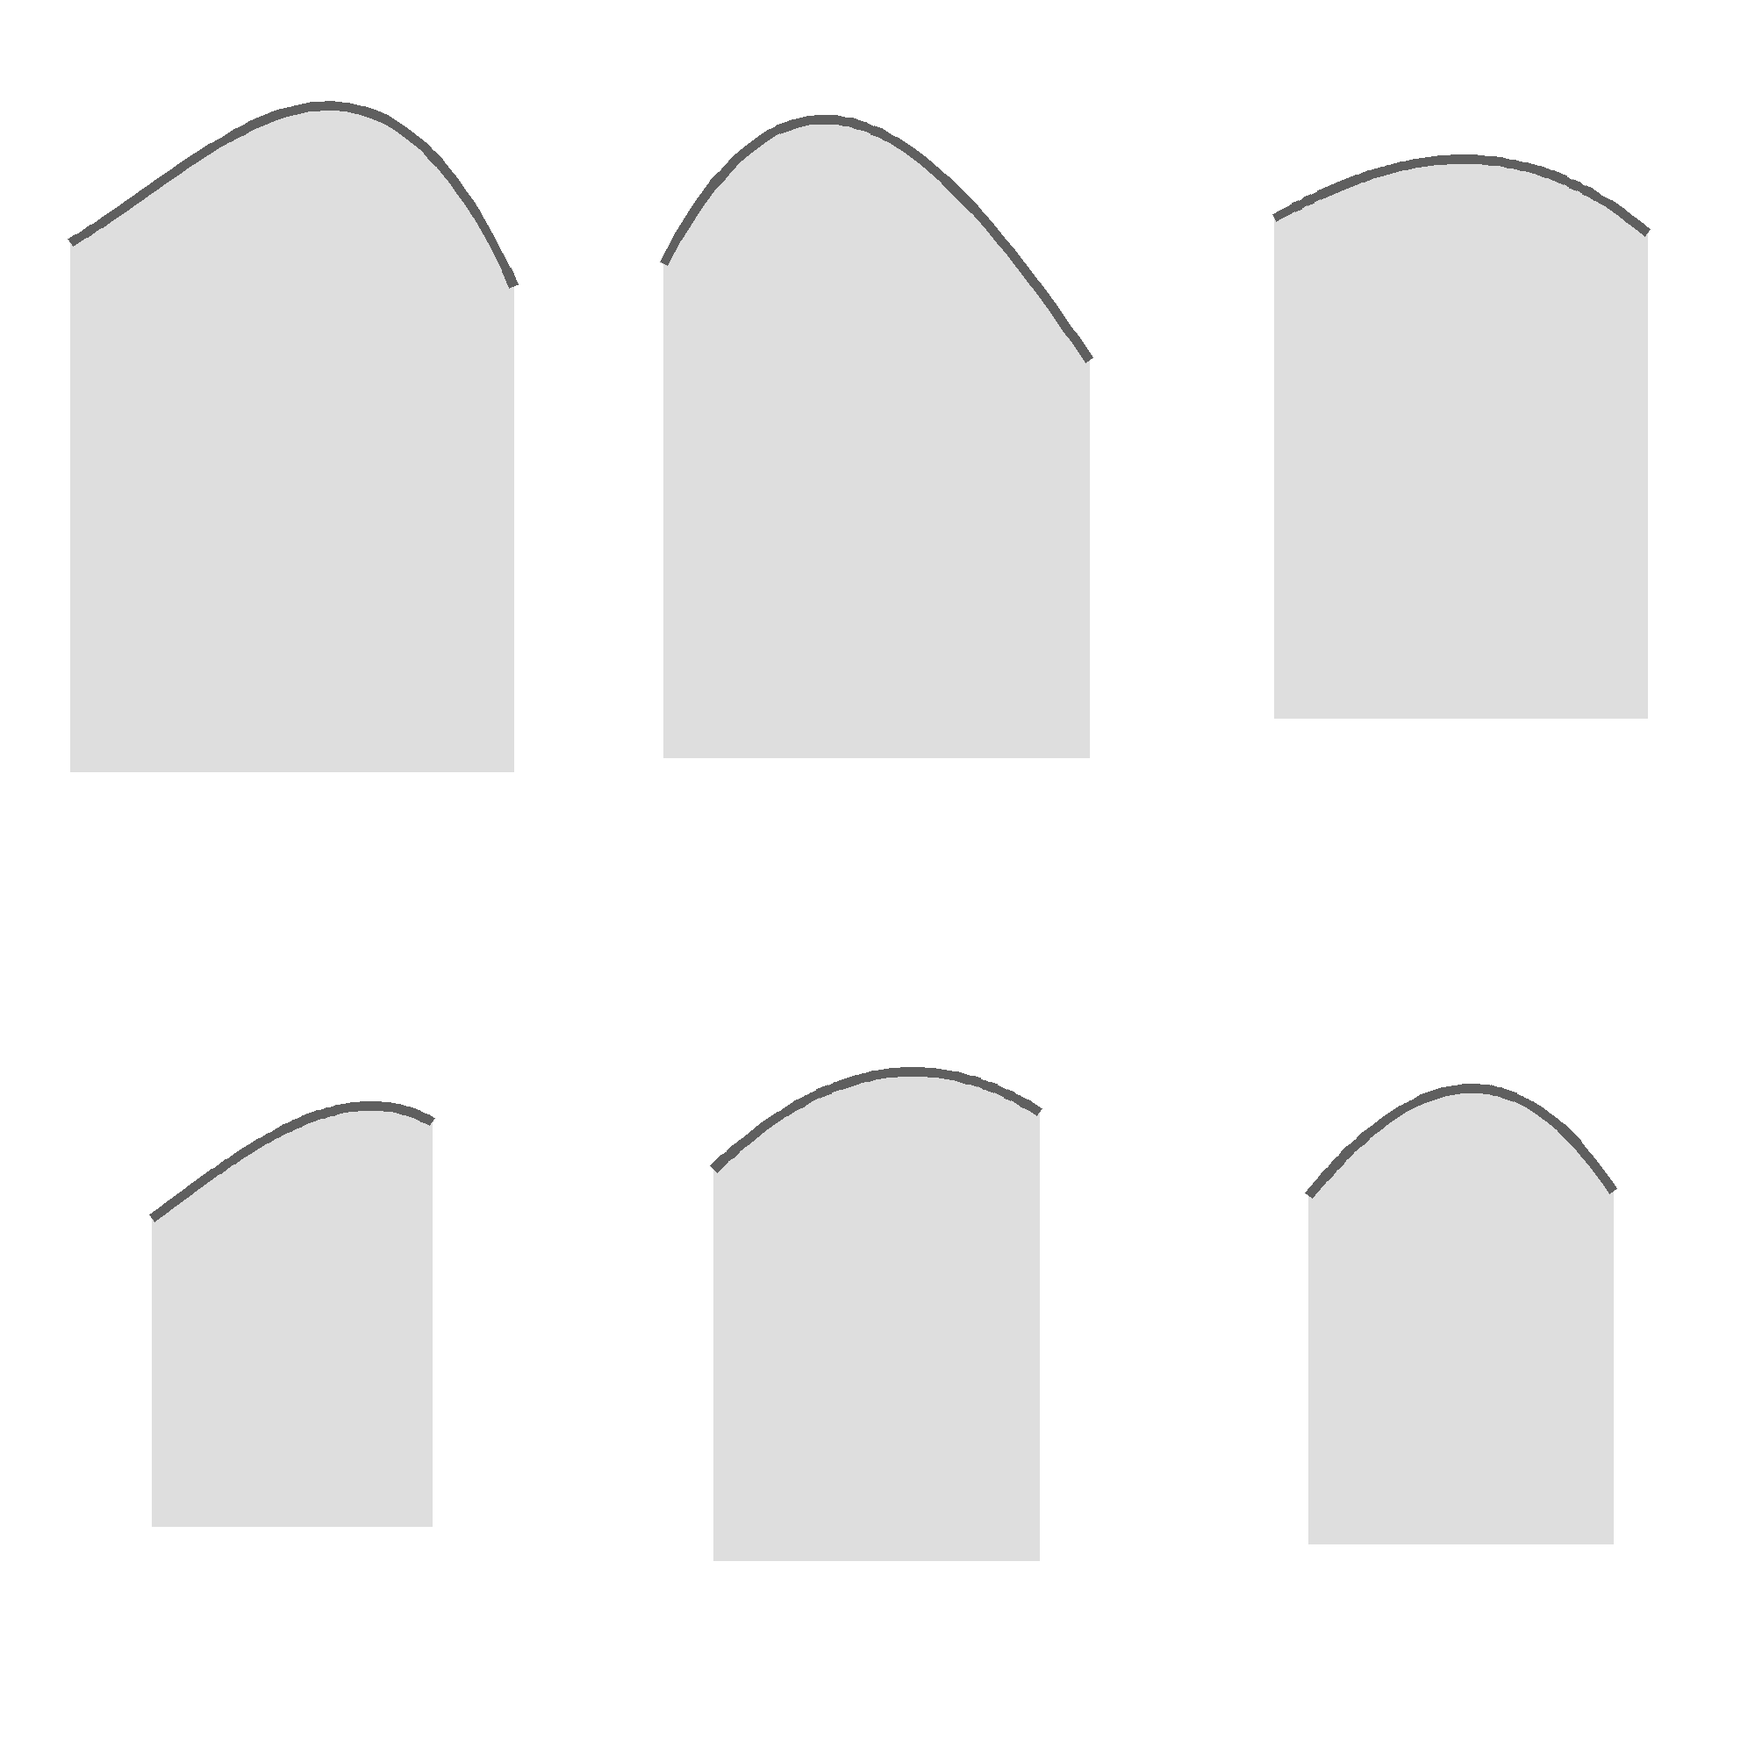
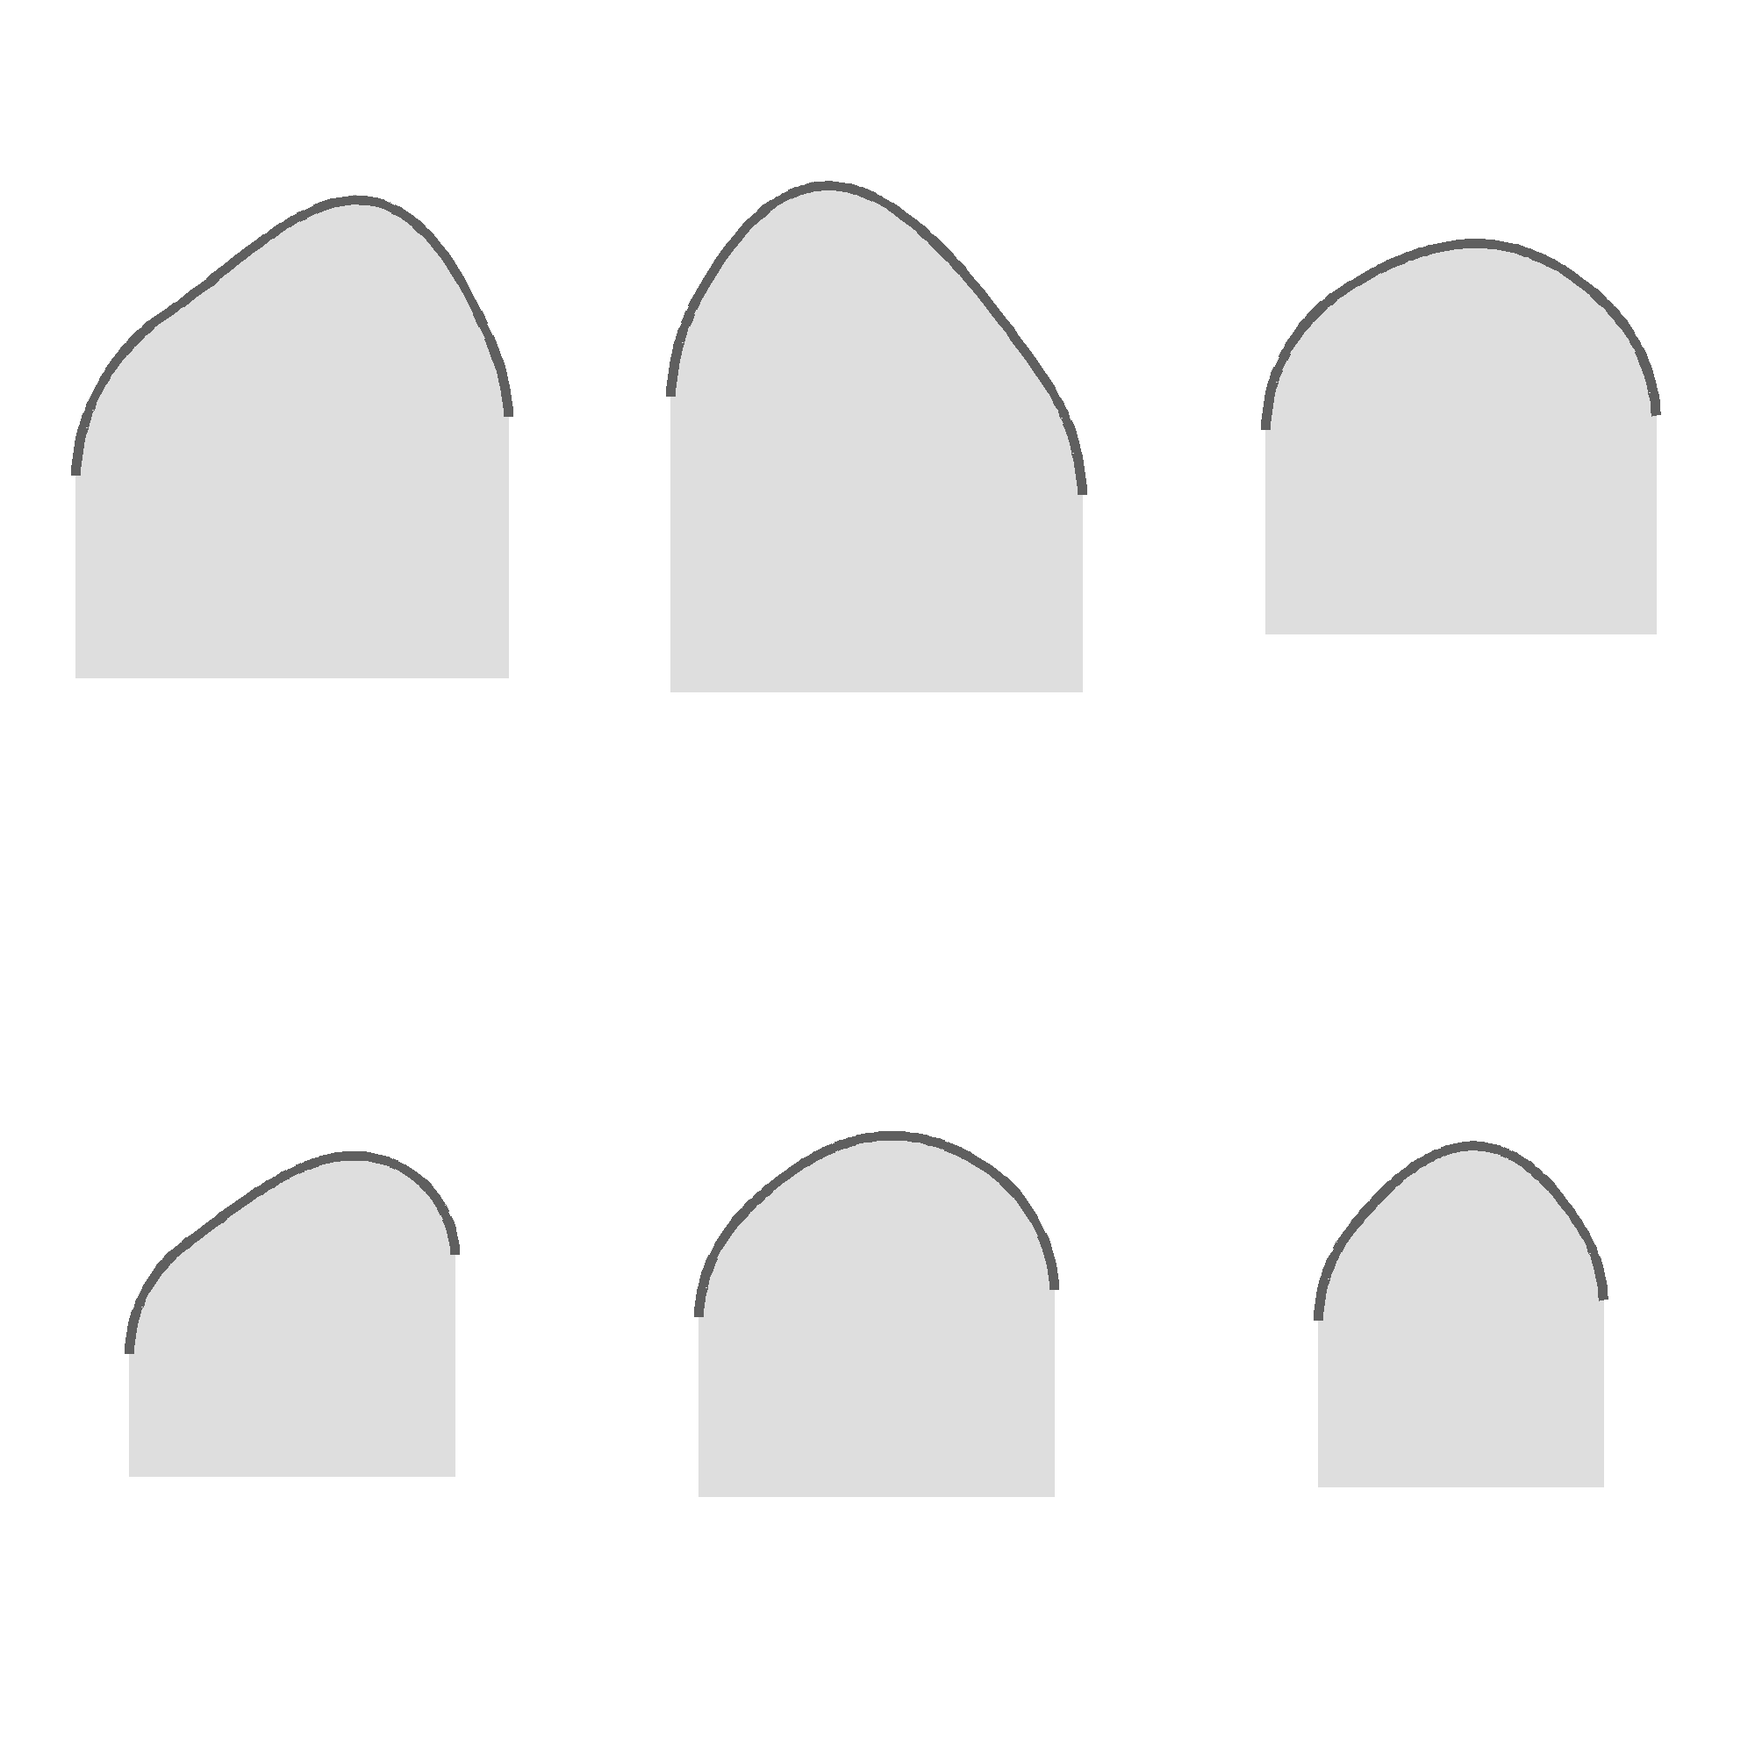
Холмы: полные купола с плечами (дуга продолжена вниз), схема расстановки без дыр, промпт v6
Claude-Session: https://claude.ai/code/session_01V1ND1TKADLpK8q5yuLYU2P

diff --git a/паттерн_холмы/направляющие_дуги.py b/паттерн_холмы/направляющие_дуги.py
@@ -24,19 +24,46 @@ F = np.array([[i['w'] / 200, i['rise'] * 4, i['apex'] * 2, i['tilt'] * 4] for i 
 while len(pick) < min(a.n, len(items)):
     d = np.min(np.linalg.norm(F[:, None] - F[pick][None], axis=2), axis=1); d[pick] = -1; pick.append(int(d.argmax()))
 sel = [items[i] for i in pick]; wmax = max(i['w'] for i in sel)
-S = a.size; cw, ch = S // 3, S // 2; per = 6; sheets = (len(sel) + per - 1) // per; SKIRT = 1.5; scale = 0.82 * cw / wmax   # клетка 667×1000 (портрет), самый широкий холмик = 82% ширины клетки, высота с юбкой 1.5 ширины
-for sh in range(sheets):
+S = a.size; cw, ch = S // 3, S // 2; per = 6; sheets = (len(sel) + per - 1) // per
+
+
+def extend_right(P, W):
+    """Продолжает кривую вправо вниз с тем же (и не меньшим) изгибом, пока касательная не станет почти вертикальной."""
+    P = np.array(P, float); n = len(P)
+    ang = np.arctan2(np.diff(P[:, 1]), np.diff(P[:, 0])); seg = np.hypot(np.diff(P[:, 0]), np.diff(P[:, 1]))
+    m = max(3, n // 4); kap = (ang[-1] - ang[-1 - m]) / max(1e-6, seg[-m:].sum())      # кривизна на последней четверти
+    kap = max(kap, 1.6 / W)                                                          # не меньше: дуга обязана загибаться вниз
+    th = ang[-1]; x, y = P[-1]; out = []; ds = 2.0; L = 0
+    while th < np.radians(86) and L < 1.1 * W:
+        th += kap * ds; x += np.cos(th) * ds; y += np.sin(th) * ds; L += ds; out.append((x, y))
+    return np.vstack([P, out]) if out else P
+
+
+def mound(it, W, sr):
+    """Полный купол: сглаженная дуга (как снята с образца) + продолжение вниз по обе стороны до вертикали. Возвращает точки контура сверху (слева направо)."""
+    pts = np.array([((g - 0.5) * W, y / it['w'] * W * sr) for g, y in zip(it['g'], it['y'])])
+    R = extend_right(pts, W)
+    Lm = extend_right(pts[::-1] * np.array([-1, 1]), W)                               # левый конец: зеркалим, продолжаем, зеркалим назад
+    Lm = (Lm * np.array([-1, 1]))[::-1]
+    return np.vstack([Lm[:len(Lm) - len(pts)], R])                                    # левое продолжение + дуга + правое продолжение
+
+
+shapes = []
+for it in sel:
+    sr = rnd.uniform(0.9, 1.1); sw = rnd.uniform(0.93, 1.07); flip = rnd.random() < 0.5
+    W = it['w'] * sw; P = mound(it, W, sr)
+    if flip: P = (P * np.array([-1, 1]))[::-1]
+    top = P[:, 1].min(); bw = P[:, 0].max() - P[:, 0].min()
+    base = max(top + 1.45 * W, P[:, 1].max() + 0.25 * W)                              # основание: ниже плеч, юбка с прямыми боками
+    shapes.append(dict(P=P, base=base, bw=bw, hh=base - top, top=top))
+scale = min(0.88 * cw / max(sh['bw'] for sh in shapes), 0.92 * ch / max(sh['hh'] for sh in shapes))
+for sh_ in range(sheets):
     im = Image.new('RGB', (S, S), (255, 255, 255)); d = ImageDraw.Draw(im)
-    for k, it in enumerate(sel[sh * per:sh * per + per]):
+    for k, sp in enumerate(shapes[sh_ * per:sh_ * per + per]):
         r_, c_ = divmod(k, 3); cx, cy = c_ * cw + cw // 2, r_ * ch + ch // 2
-        sw = rnd.uniform(0.93, 1.07); sr = rnd.uniform(0.9, 1.1); flip = rnd.random() < 0.5
-        W = it['w'] * scale * sw                                        # одинаковый масштаб для всех: относительные размеры сохраняются
-        pts = [((g - 0.5) * W, y / it['w'] * W * sr) for g, y in zip(it['g'], it['y'])]
-        if flip: pts = [(-x, y) for x, y in pts][::-1]
-        top = min(p[1] for p in pts); hgt = SKIRT * W                        # полный холмик: от вершины до нижнего края 1.5 ширины (длинная юбка)
-        P = [(cx + x, cy - hgt / 2 + (y - top)) for x, y in pts]            # вершина на cy - hgt/2, низ на cy + hgt/2
-        bottom = cy + hgt / 2
-        poly = P + [(P[-1][0], bottom), (P[0][0], bottom)]
-        d.polygon(poly, fill=(222, 222, 222)); d.line(P, fill=(95, 95, 95), width=11, joint='curve')
-    im.save(os.path.join(a.out, f'дуги_лист_{sh + 1}.png')); print('лист', sh + 1)
+        P = sp['P'] * scale; top = sp['top'] * scale; hh = sp['hh'] * scale
+        xm = (P[:, 0].min() + P[:, 0].max()) / 2
+        Q = [(cx + x - xm, cy - hh / 2 + (y - top)) for x, y in P]; bottom = cy + hh / 2
+        d.polygon(Q + [(Q[-1][0], bottom), (Q[0][0], bottom)], fill=(222, 222, 222)); d.line(Q, fill=(95, 95, 95), width=11, joint='curve')
+    im.save(os.path.join(a.out, f'дуги_лист_{sh_ + 1}.png')); print('лист', sh_ + 1)
 json.dump([dict(w=i['w'], rise=i['rise'], apex=i['apex'], tilt=i['tilt']) for i in sel], open(os.path.join(a.out, 'выбранные_дуги.json'), 'w'))

diff --git a/паттерн_холмы/ПРОМПТЫ_холмы.md b/паттерн_холмы/ПРОМПТЫ_холмы.md
@@ -140,3 +140,20 @@
 
 Приложены: 1) направляющая с серыми силуэтами, 2) образец рулона с узором (кроп без свитка и полей).
 ```
+
+# v6: ПОЛНЫЕ купола (дуга продолжена вниз по обе стороны), как нарисовал пользователь синими линиями
+`направляющие_дуги.py` теперь продолжает снятую дугу вниз с тем же изгибом по обе стороны до вертикали (плечи), дальше прямые бока и ровное основание. Схема расстановки `направляющие/схема_расстановки_2x2.jpg`: из этих силуэтов ряды закрывают друг друга полностью (дыр 0.000%), видны только верхние части с дугами.
+```
+РИСУЙ: шесть отдельных ПОЛНЫХ холмиков-куполов для паттерна в духе японской чешуи (seigaiha), нарисованных гуашью и акварелью вручную, на чистом белом фоне. Форма, размер и положение каждого холмика заданы первой приложенной картинкой с серыми силуэтами, стиль задан второй приложенной картинкой с рулоном.
+
+1. ФОРМАТ: квадрат 1:1, фон чисто белый #FFFFFF, без теней, без текстуры бумаги, без рамки. Шесть холмиков стоят в тех же местах и того же размера, что шесть серых силуэтов на первой картинке (две строки по три).
+2. ФОРМА: каждый холмик, это ЦЕЛЫЙ купол по своему серому силуэту, ничего не обрезано. Серая линия идёт по верху и по плечам: она загибается вниз с обеих сторон, дальше боковые края прямые вертикальные, внизу ровное горизонтальное основание, ниже которого ничего нет. Форму, ширину, высоту, наклон, положение вершины, изгиб плеч не менять и не выравнивать, все шесть холмиков разные, как на силуэтах.
+3. УСТРОЙСТВО КАЖДОГО, как на втором изображении (образце): серая линия силуэта, это середина широкого мазка тёмной сине-стальной краски (#1F4358); мазок идёт по ВСЕЙ серой линии, по верху и по плечам, живой, с лёгкой щетиной кисти по краю, толщиной около 6% ширины холмика, один конец чуть толще и темнее другого, к низу плеч мазок немного сужается; сразу под ним по всей его длине одна или две тонкие параллельные светлые линии, белая и бледно-мятная, чёткие и непрерывные; внутри всего силуэта до основания заливка. Мазок, линии и заливка плотно примыкают друг к другу, без белых щелей.
+4. ЗАЛИВКА: ровная спокойная акварельная заливка одного и того же сине-серо-бирюзового тона на всех холмиках (#5F8DA0), с лёгкой мягкой пятнистостью бумаги, едва заметной градацией светлее к низу, до самого основания. Разница в тоне между холмиками совсем небольшая, до 6% яркости. Без крупных потёков, клякс, брызг, тёмных каёмок у пятен, белых проплешин. Цвет чистый.
+5. СТИЛЬ: перенять манеру образца целиком: мазок дуги, светлые линии, спокойную акварельную заливку, цвета. Все шесть холмиков в одном стиле, нарисованы одной рукой.
+6. СЕРЫЕ СИЛУЭТЫ: это только подсказка формы. Серую линию и серую заливку не рисовать, результат на чисто белом фоне без серого.
+7. НЕЛЬЗЯ: серые силуэты и серую линию в результате, фон любого цвета кроме белого, тени, рамки, подписи, перекрытие холмиков, смена формы или размера холмика, выравнивание дуг, обрезанная или укороченная юбка, дуга только сверху без плеч, рваный или размытый нижний край, крупные потёки и кляксы, брызги, белые щели между дугой и заливкой, особые формы, разные цвета заливки.
+8. РЕЗУЛЬТАТ: белый лист, шесть отдельных целых куполов точно по силуэтам, стиль образца, чистая заливка в одном тоне.
+
+Приложены: 1) направляющая с серыми силуэтами, 2) образец рулона с узором (кроп без свитка и полей).
+```
